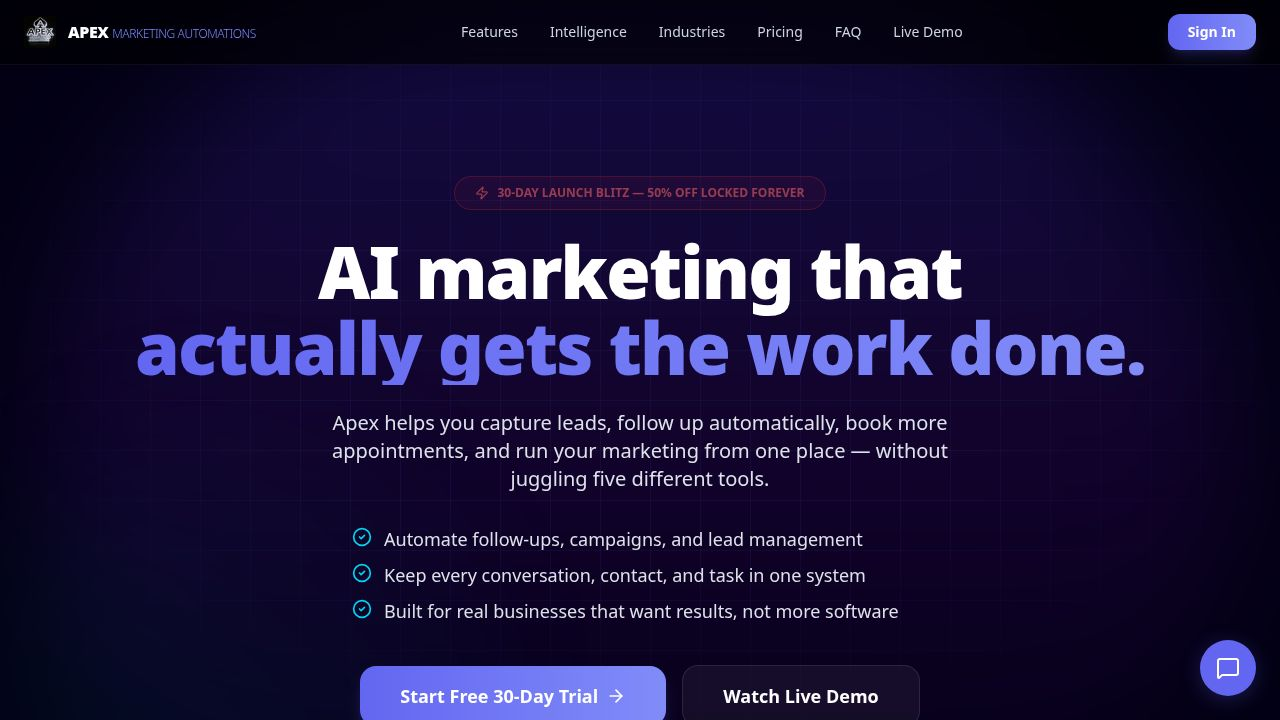
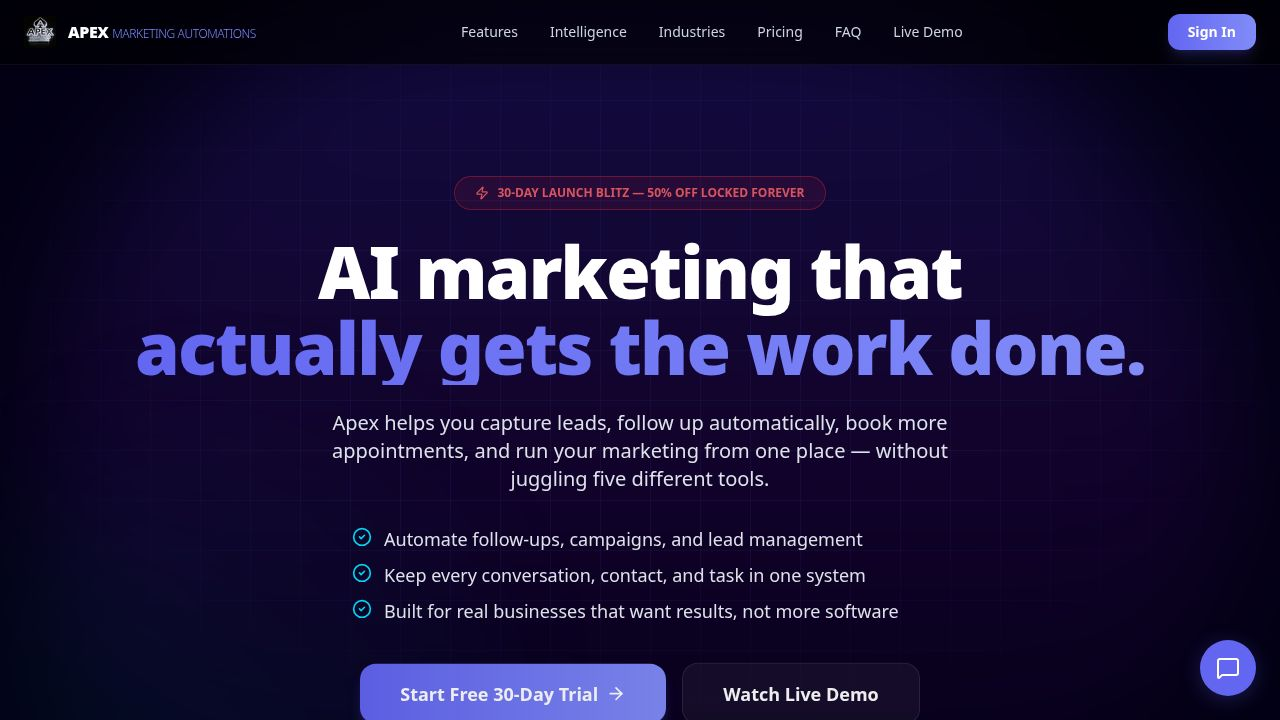
Surface real errors in the Apex seed health checks instead of swallowing them
Task #160. The Apex seed verification in server/intelligence/productionSeed.ts
had three silent `} catch {` blocks that hid the underlying error and only
pushed a generic warning. This is the same class of bug that masked the
coverage column-name regression in task #159.

Changes in server/intelligence/productionSeed.ts:
- Module event registry verification (around line 131): now binds the error,
  logs it via console.error with the "[APEX-SEED]" prefix, and appends the
  message to the warning pushed onto VerificationResult.warnings.
- Autonomy policy rules verification (around line 154): same treatment —
  console.error plus the underlying message in the warning string.
- Per-event registry seeding loop in seedModuleEventRegistryProduction
  (around line 190): each failed registerModuleEvent call now logs the
  module group, event type, and error via console.error. The first error
  is retained in firstEventRegistrationError and appended to the SeedResult
  message so the operator sees "errors occurred — first: <group>/<event>:
  <message>" alongside the seeded count, instead of silently incrementing
  `skipped`. A summary console.warn fires once after the loop if any errors
  occurred. (Variable named "first" to match the actual once-only assignment
  semantics, per code review feedback.)

No changes to behavior for the happy path — counts, return shapes, and
warning/error semantics are preserved. Only failure visibility changed.
[…]

Changed region(s): [[0.2812, 0.9167, 0.5312, 0.9778], [0.375, 0.2444, 0.625, 0.275], [0.5625, 0.9472, 0.6875, 0.9778]]

diff --git a/server/intelligence/productionSeed.ts b/server/intelligence/productionSeed.ts
@@ -128,8 +128,10 @@ export async function verifyIntelligenceTables(): Promise<VerificationResult> {
     if (!result.registryStatus.complete) {
       result.warnings.push(`Module event registry incomplete: ${result.registryStatus.moduleGroups}/${expectedGroups} groups, ${result.registryStatus.eventTypes}/${expectedEvents} events`);
     }
-  } catch {
-    result.warnings.push("Could not verify module event registry");
+  } catch (err) {
+    const message = err instanceof Error ? err.message : String(err);
+    console.error("[APEX-SEED] Failed to verify module event registry:", err);
+    result.warnings.push(`Could not verify module event registry: ${message}`);
   }
 
   try {
@@ -151,8 +153,10 @@ export async function verifyIntelligenceTables(): Promise<VerificationResult> {
       result.errors.push("CRITICAL: No blocked policy rules found — destructive actions may be permitted");
       result.passed = false;
     }
-  } catch {
-    result.warnings.push("Could not verify autonomy policy rules");
+  } catch (err) {
+    const message = err instanceof Error ? err.message : String(err);
+    console.error("[APEX-SEED] Failed to verify autonomy policy rules:", err);
+    result.warnings.push(`Could not verify autonomy policy rules: ${message}`);
   }
 
   try {
@@ -171,6 +175,7 @@ export async function seedModuleEventRegistryProduction(): Promise<SeedResult> {
   const { storage } = await import("../storage");
   let seeded = 0;
   let skipped = 0;
+  let firstEventRegistrationError: string | null = null;
 
   for (const [moduleGroup, eventTypes] of Object.entries(MODULE_GROUP_EVENT_MAP)) {
     for (const eventType of eventTypes) {
@@ -187,17 +192,29 @@ export async function seedModuleEventRegistryProduction(): Promise<SeedResult> {
           isActive: true,
         });
         seeded++;
-      } catch {
+      } catch (err) {
+        const message = err instanceof Error ? err.message : String(err);
+        console.error(`[APEX-SEED] Failed to register module event ${moduleGroup}/${eventType}:`, err);
         skipped++;
+        if (!firstEventRegistrationError) {
+          firstEventRegistrationError = `${moduleGroup}/${eventType}: ${message}`;
+        }
       }
     }
   }
 
+  if (firstEventRegistrationError) {
+    console.warn(`[APEX-SEED] Module event registry encountered errors during seeding (first: ${firstEventRegistrationError})`);
+  }
+
+  const baseMessage = `${seeded} new events registered, ${skipped} already present`;
   return {
     table: "apex_module_event_registry",
     status: seeded > 0 ? "seeded" : "exists",
     count: seeded,
-    message: `${seeded} new events registered, ${skipped} already present`,
+    message: firstEventRegistrationError
+      ? `${baseMessage} (errors occurred — first: ${firstEventRegistrationError})`
+      : baseMessage,
   };
 }
 